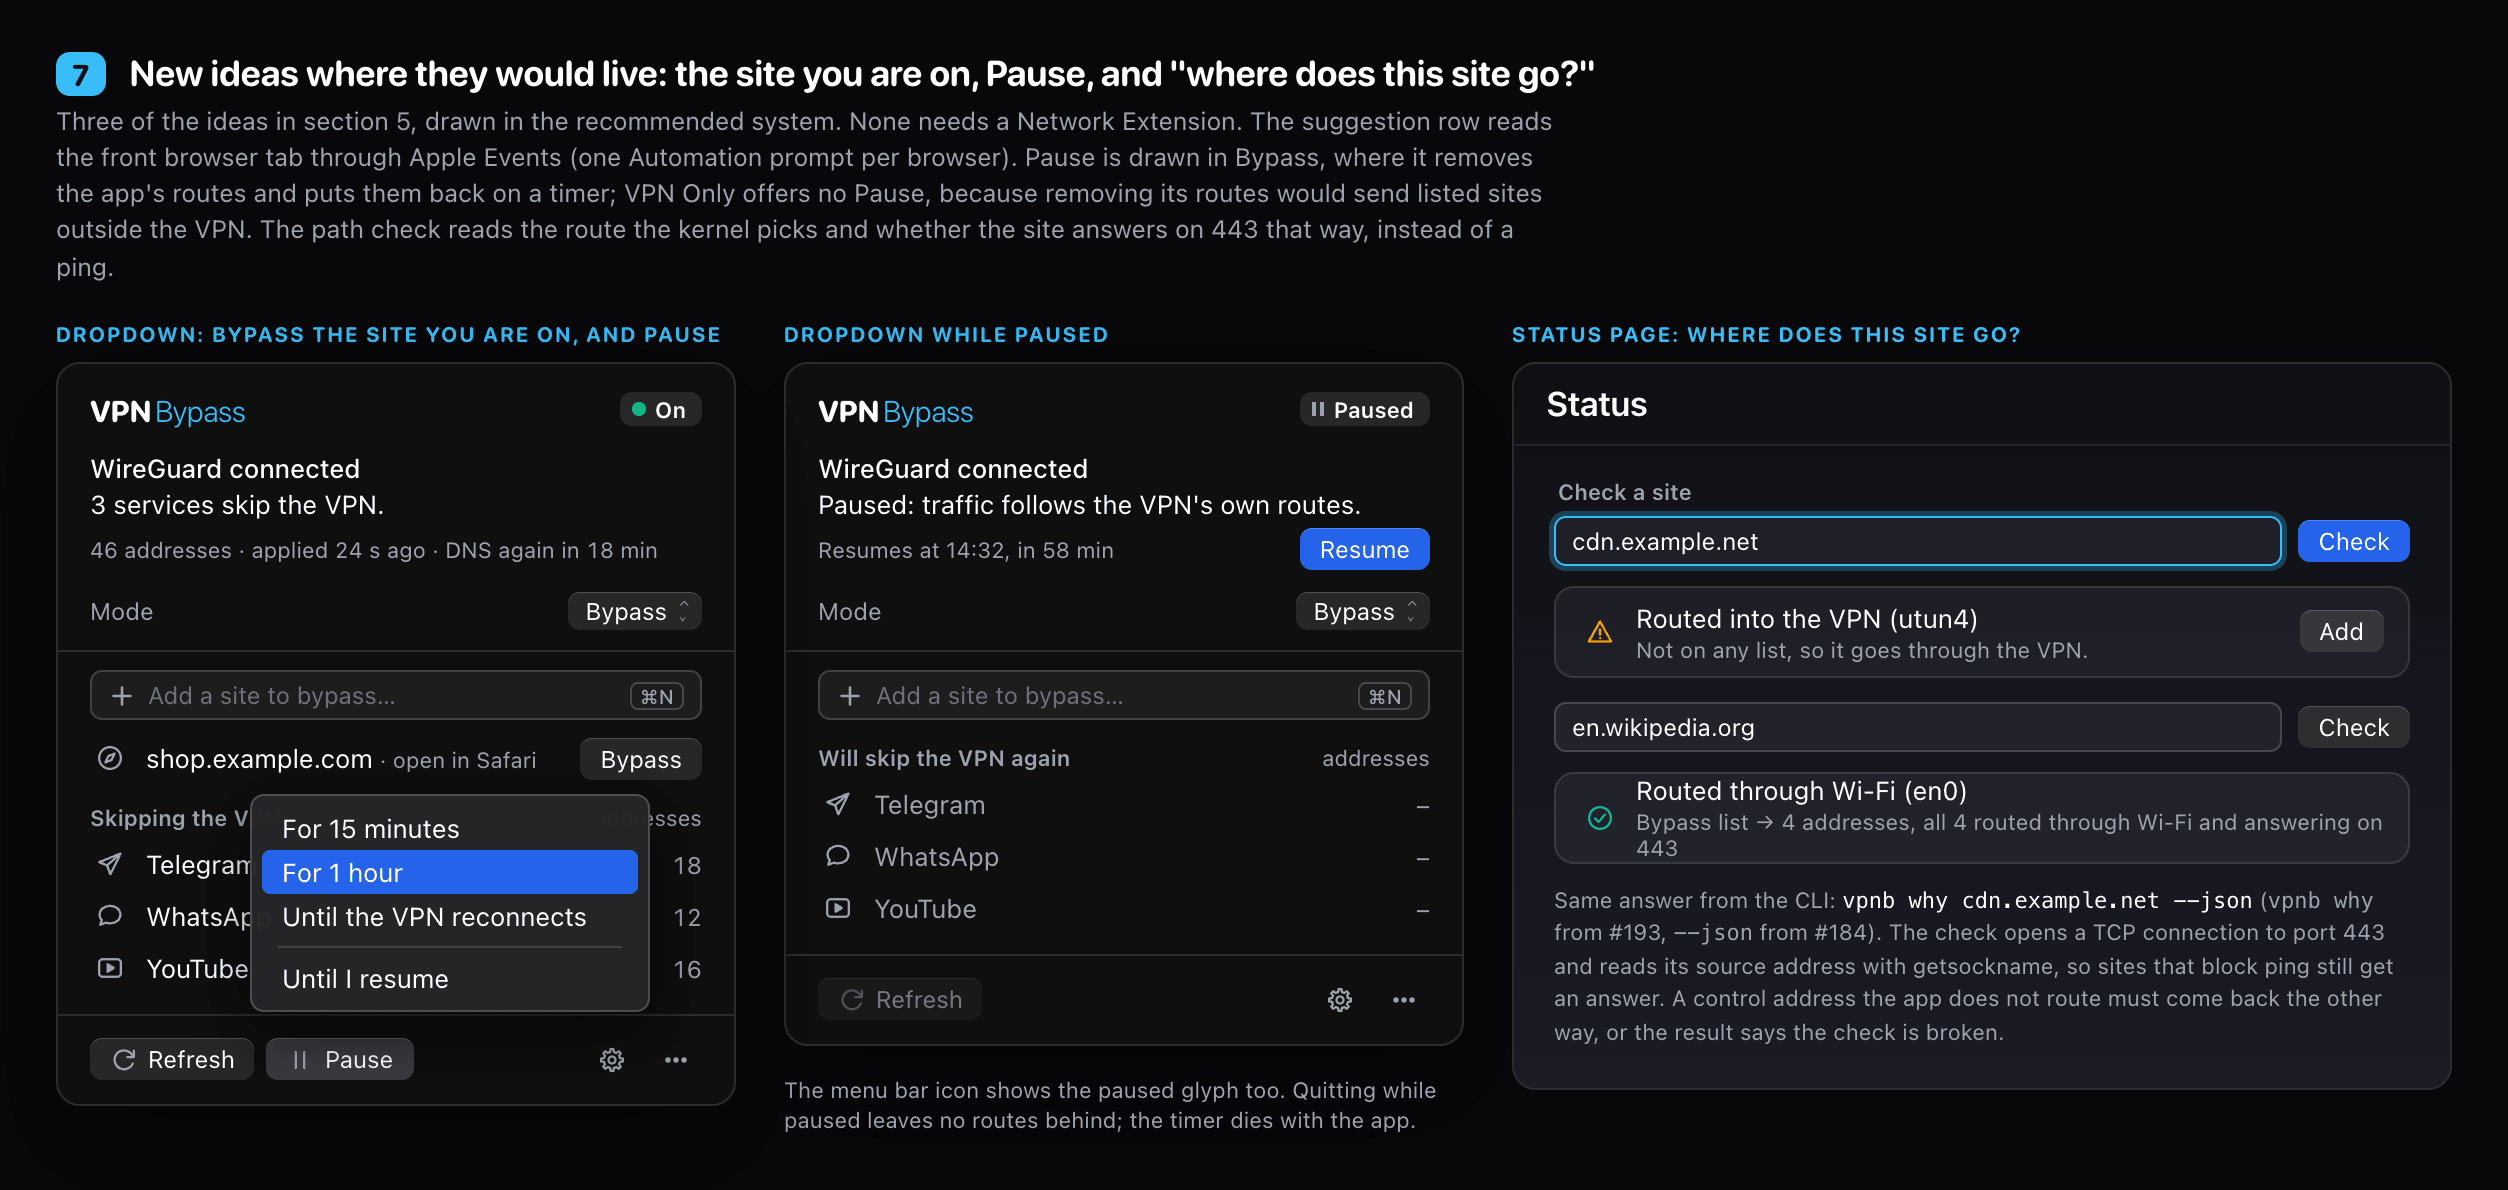
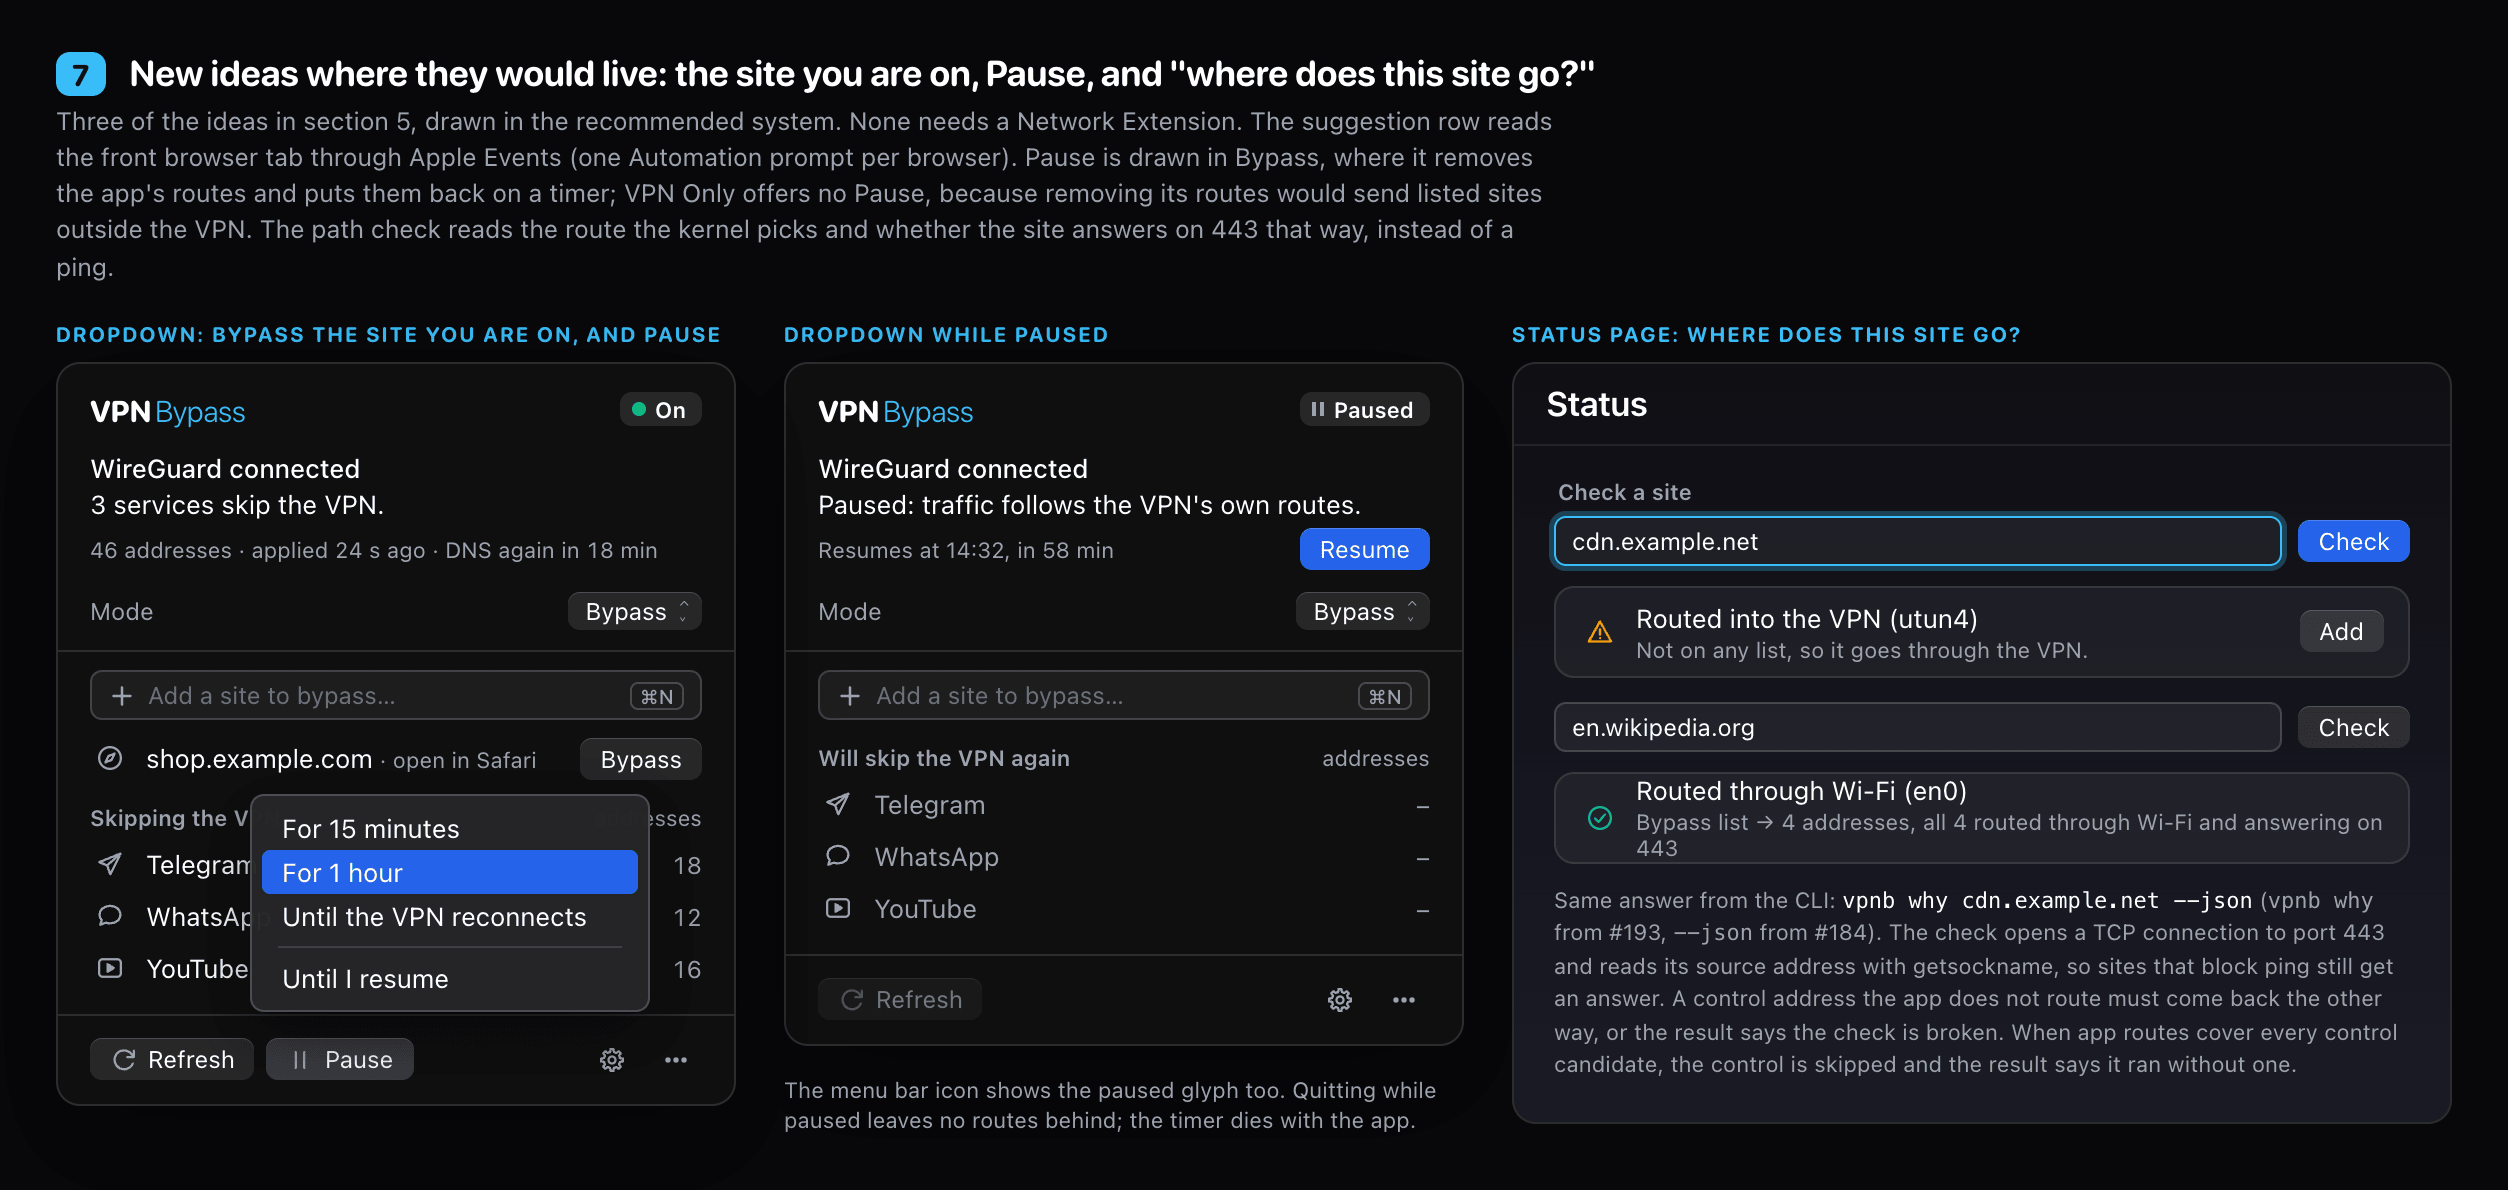
docs(design): keep Pause and the path check honest when an apply fails or proves nothing

Changed region(s): [[0.5909, 0.8395, 0.9952, 0.9639]]

diff --git a/docs/design/proposals/rework/07-new-ideas.html b/docs/design/proposals/rework/07-new-ideas.html
@@ -56,7 +56,7 @@
         <div class="box" style="margin-top:10px">
           <div class="row2 two"><span class="lead"><i data-g="checkc" class="live"></i></span><div class="fill"><div class="name">Routed through Wi-Fi (en0)</div><div class="det">Bypass list → 4 addresses, all 4 routed through Wi-Fi and answering on 443</div></div></div>
         </div>
-        <div class="ty-detail" style="margin-top:10px;line-height:1.5">Same answer from the CLI: <span class="ty-mono" style="font-size:11px;color:var(--t1)">vpnb why cdn.example.net --json</span> (<span class="ty-mono" style="font-size:11px">vpnb why</span> from #193, <span class="ty-mono" style="font-size:11px">--json</span> from #184). The check opens a TCP connection to port 443 and reads its source address with getsockname, so sites that block ping still get an answer. A control address the app does not route must come back the other way, or the result says the check is broken.</div>
+        <div class="ty-detail" style="margin-top:10px;line-height:1.5">Same answer from the CLI: <span class="ty-mono" style="font-size:11px;color:var(--t1)">vpnb why cdn.example.net --json</span> (<span class="ty-mono" style="font-size:11px">vpnb why</span> from #193, <span class="ty-mono" style="font-size:11px">--json</span> from #184). The check opens a TCP connection to port 443 and reads its source address with getsockname, so sites that block ping still get an answer. A control address the app does not route must come back the other way, or the result says the check is broken. When app routes cover every control candidate, the control is skipped and the result says it ran without one.</div>
       </div>
     </div>
   </div>

diff --git a/docs/design/proposals/rework/06-general-about.html b/docs/design/proposals/rework/06-general-about.html
@@ -32,7 +32,7 @@
         <div class="sec ty-section">DNS outside the VPN</div>
         <div class="box">
           <div class="row2"><span class="name fill">Detected</span><span class="ty-mono" style="color:var(--t2)">192.168.1.1</span></div>
-          <div class="row2"><span class="name fill" style="color:var(--t2)">Also asked with the detected server, plus Cloudflare and Google DoH after 200 ms; first answer wins</span></div>
+          <div class="row2"><span class="name fill" style="color:var(--t2)">Also asked with the detected server, plus Cloudflare and Google DoH after 200 ms; first answer wins. If all fail, the system resolver (maybe the VPN's DNS)</span></div>
           <div class="row2 hov"><span class="name fill ty-mono">1.1.1.1</span><span class="acts"><span><i data-g="trash"></i></span></span></div>
           <div class="row2"><span class="name fill ty-mono">8.8.8.8</span></div>
           <div class="row2"><span class="name fill" style="color:var(--accentText)">Add Server…</span></div>

diff --git a/docs/design/APP-REWORK-PROPOSALS.md b/docs/design/APP-REWORK-PROPOSALS.md
@@ -199,7 +199,7 @@ No image. Both keep their content and take the shared components.
 
 **Proposal.**
 
-- **General as five native groups with no icons:** Startup, Routing, DNS outside the VPN (extra servers asked at the same time as the detected one, plus Cloudflare and Google DoH after 200 ms whatever the list says; first answer wins, `DNSResolver.resolveIPsParallel`), Notifications, Configuration. Notification kinds become checkboxes under the existing master switch, which stays and greys them when off. "Auto DNS Refresh" and "Refresh Interval" merge into one popup, "Look up addresses again: Every hour / … / Never". "Verify Routes After Apply" becomes "Check the path after applying", which runs idea 1 in section 5 instead of ping.
+- **General as five native groups with no icons:** Startup, Routing, DNS outside the VPN (extra servers asked at the same time as the detected one, plus Cloudflare and Google DoH after 200 ms whatever the list says; first answer wins, and when all of them fail the system resolver is the last resort, which may use the VPN's DNS; `DNSResolver.resolveIPsParallel`), Notifications, Configuration. Notification kinds become checkboxes under the existing master switch, which stays and greys them when off. "Auto DNS Refresh" and "Refresh Interval" merge into one popup, "Look up addresses again: Every hour / … / Never". "Verify Routes After Apply" becomes "Check the path after applying", which runs idea 1 in section 5 instead of ping.
 - **The global SOCKS5 proxy.** Two options; A is decided:
   - **(A) Move it behind an Advanced disclosure and hide it in Custom mode (decided).** One sentence points Custom users to Routes. Nothing changes for people who use it.
   - **(B) Retire it in favour of Custom mode's SOCKS5 routes.** Simpler in the long run, but it breaks the setup of anyone using it in Bypass mode. That needs a migration and a release note.
@@ -226,7 +226,7 @@ These are bugs. Each is S, and none depends on the rework.
 | A1 | French translates the product name: the wordmark reads "VPN Contournement", in the dropdown and in Settings. | `Text("Bypass")` in `BrandedAppName`, `MenuBarViews.swift:178`; `fr.lproj` maps "Bypass" to the mode name | `Text(verbatim: "Bypass")` |
 | A2 | Under "Helper not running, nothing is being routed", the result line says "62 addresses routed 24 s ago, none failed." | `shownRouteChange`, `MenuBarViews.swift:870` hides only `.removedAll` | Hide the line when the helper is not ready or the live count disagrees, and say how many routes are still in place, since a stopped helper leaves them in the kernel (removed for good by 3.1) |
 | A3 | At startup the header says "WireGuard connected" and "NOTHING ROUTED" over the "Setting Up…" spinner. | `DropdownStatus.make`, `:1483`, never reads `isLoading`; spinner at `:603-620` | Add a Starting state to `DropdownStatus` |
-| A4 | The pill stays a green ON with 1,203 failed, with a service at zero addresses, and with 4 of 5 checked addresses unreachable. | `:1570` ignores `failedCount`, problem rows and the last check | Partly routed (▲) when any of the three is true |
+| A4 | The pill stays a green ON with 1,203 failed, with a service at zero addresses, and with 4 of 5 checked addresses unreachable. | `:1570` ignores `failedCount`, problem rows and the last check | Partly routed (▲) when routes failed or a service has no addresses. A path check whose addresses do not answer on 443, or whose control is broken, proves nothing about routing, so it shows its own check problem on line 3 instead |
 | A5 | In Custom the button says "Add Domain to Bypass", but it appends a Direct rule. The rule goes last, where an earlier rule can shadow it, and the field closes without saying anything. | `:404` checks only `.vpnOnly`; `addForCurrentMode`, `RulesTab.swift:136`; `:771-775` returns nil | Label "Add a Direct rule…", and confirm with the rule's position ("Added as rule 4; rule 2 matches first") |
 | A6 | Disconnected, the sentence says "Connect to a VPN to start bypassing traffic for configured services" in every mode, VPN Only included. In Custom the badges count Bypass services and domains, which Custom does not use. | `:634`; badges `:641-652` | Say it per mode, and count rules in Custom |
 | A7 | Routes kept while disconnected cannot be seen or removed from the dropdown, nor can routes whose removal failed. | `disconnectedContent`, `:624` has no list and no ⋯ | Keep the list and ⋯ when disconnected (3.1) |
@@ -242,11 +242,11 @@ These are bugs. Each is S, and none depends on the rework.
 **2. There is no pause.** *What the user sees:* to check whether the app causes a problem, users quit it or switch modes. The nearest thing is ⋯ → Remove All Routes… → an alert, and the routes come back on the next reconnect or DNS refresh (`MenuBarViews.swift:528`, `:905-933`). *Proposal:* a Pause button with For 15 minutes, For 1 hour, Until the VPN reconnects and Until I resume (image 7). What Pause may do depends on the mode, because removing routes is safe in one direction only:
 
 - **Bypass.** Pausing runs `removeAllRoutes` (`RouteManager.swift:2535`) and traffic follows the VPN's own routes again. That is the safe direction, and it is the state drawn: "Paused: traffic follows the VPN's own routes." It does not say everything goes through the VPN, because a split-tunnel VPN already sends some destinations outside it. That line shows only once every route is gone. `removeAllRoutes` keeps a route it could not remove, and keeps all of them when the helper is not ready, so in that case the block says how many routes are still in place, with Retry, and does not say Paused. Once per-app routing exists, Pause also pushes the Network Extension's empty policy, as its own pause does. That closes no open flow, so while claimed per-app connections are still open the line says new connections follow the VPN's routes and open ones keep their path until they close.
-- **Proxy listeners, in any mode.** Pause removes routes, not loopback listeners. Proxy routes keep theirs running in Custom, and in Bypass when the multi-route option is on (`reconcileProxyListeners`, `RouteManager.swift:5319-5329`), so Pause is greyed while any proxy listener runs, naming the route. Turning a proxy route on while paused ends the pause first, because its listener starts at once (`RoutesTab.toggleRoute`).
+- **Proxy listeners, in any mode.** Pause removes routes, not loopback listeners. Proxy routes keep theirs running in Custom, and in Bypass when the multi-route option is on (`reconcileProxyListeners`, `RouteManager.swift:5319-5329`), so Pause is greyed while any proxy listener runs, naming the route. Turning a proxy route on while paused ends the pause first, because its listener starts at once (`RoutesTab.toggleRoute`). So does any Custom rule edit that leaves a rule not going Direct (turning a rule on, or pointing it at a VPN or proxy route), since Pause is only allowed when every enabled rule goes Direct.
 - **VPN Only.** Not offered. Removing these routes sends the listed sites out over the open connection, the leak idea 7 exists to prevent. The Pause button is greyed with one line: "Pausing VPN Only would send listed sites outside the VPN. Switch mode instead."
-- **Custom.** Offered only when every enabled rule goes Direct and no proxy route is enabled, where it behaves as in Bypass. An enabled proxy route keeps its loopback listener running for the apps set to use it, whether or not a rule points at it (`reconcileProxyListeners`, `RouteManager.swift:5319`), so Pause is greyed while one is on, naming the route. A proxy rule has no route to remove: a loopback listener serves it, and removing routes leaves that listener running, so the paused line would be false. If any rule sends traffic into the VPN, removing it can send that traffic outside the VPN. In both cases Pause is greyed as in VPN Only, naming the rule.
+- **Custom.** Offered only when every enabled rule goes Direct and no proxy route is enabled, where it behaves as in Bypass. An enabled proxy route keeps its loopback listener running for the apps set to use it, even when no rule points at it (`reconcileProxyListeners`, `RouteManager.swift:5319`), so Pause is greyed while one is on, naming the route. A proxy rule has no route to remove: a loopback listener serves it, and removing routes leaves that listener running, so the paused line would be false. If any rule sends traffic into the VPN, removing it can send that traffic outside the VPN. In both cases Pause is greyed as in VPN Only, naming the rule.
 
-In the modes where it is offered, a timer runs the normal apply, and so does Resume, which is the button on line 3 of the status block while paused. While paused, nothing installs routes: not auto-apply, DNS refresh or reconnect handling, and not the add field, Domains edits or wildcard learning either (`addDomain` calls `routeNewBypassEntry`, which installs at once when the VPN is up). An entry added or changed while paused is saved, and Resume applies it. Changing mode while paused ends the pause: the switch runs the new mode's normal apply, as Resume does, so a paused Bypass session switched to VPN Only installs its routes into the VPN at once and never stays paused there. Quitting while paused leaves nothing behind. Also as `vpnb pause 15m`. Resuming is one apply, the same write burst as Refresh, so it goes through the existing settle gate and pacer: never a burst while a struggling VPN reconnects. Size S.
+In the modes where it is offered, a timer runs the normal apply, and so does Resume, which is the button on line 3 of the status block while paused. While paused, nothing installs routes: not auto-apply, DNS refresh or reconnect handling, and not the add field, Domains edits or wildcard learning either (`addDomain` calls `routeNewBypassEntry`, which installs at once when the VPN is up). An entry added or changed while paused is saved, and Resume applies it. Changing mode while paused ends the pause: the switch runs the new mode's normal apply, as Resume does, so a paused Bypass session switched to VPN Only starts installing its routes into the VPN at once and never stays paused there. If that apply cannot install them (helper not ready, or an apply the app refuses for the connected VPN), the block says how many listed routes are missing, with Retry, as any failed apply does, and never shows Paused. Quitting while paused leaves nothing behind. Also as `vpnb pause 15m`. Resuming is one apply, the same write burst as Refresh, so it goes through the existing settle gate and pacer: never a burst while a struggling VPN reconnects. Size S.
 
 **3. Failures are counted, not named.** *What the user sees:* "7 failed" with no list, and only a tooltip pointing at Settings > Logs (`MenuBarViews.swift:878`). Zoom shows "no addresses" with no reason and no retry. The route-check card cannot be dismissed. *Proposal:* the reason goes in the row (▲ and "no answer from DNS"), with Retry on hover. Line 3 gets "Show", which opens Status > Problems with every failure behind the count: failed addresses with their entry and the helper's reason, and names that did not resolve with the DNS error. Size S-M.
 
